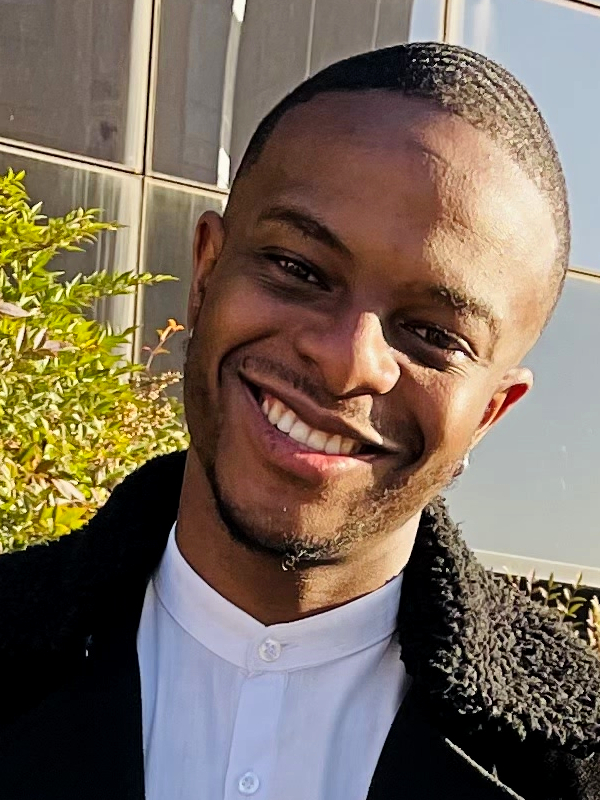
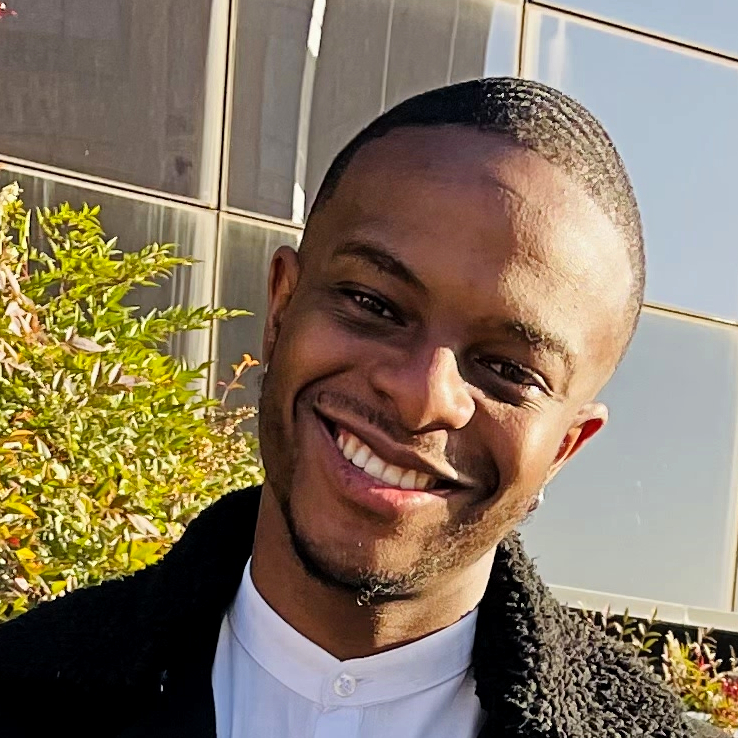
Added a resized version of the my-photo-small (1X1). Added div container on the picture element to aid with better styling. Started coding the mobile version of the website, which I have commented out so as to not affect the overall css codebase.

diff --git a/resume8.html b/resume8.html
@@ -34,14 +34,19 @@
 				<br /><br />
 				<p class="default-font">An introductory personal statement.</p>
 			</header>
-			<picture>
-				<source srcset="images/my-photo-small.jpg" media="(max-width: 600px)" />
-				<source
-					srcset="images/my-photo-medium.jpg"
-					media="(min-width: 651px) and (max-width: 1000px)"
-				/>
-				<img src="images/my-photo-large.jpg" alt="My professional photo" />
-			</picture>
+			<div id="img-container">
+				<picture>
+					<source
+						srcset="images/my-photo-small.jpg"
+						media="(max-width: 600px)"
+					/>
+					<source
+						srcset="images/my-photo-medium.jpg"
+						media="(min-width: 651px) and (max-width: 1000px)"
+					/>
+					<img src="images/my-photo-large.jpg" alt="My professional photo" />
+				</picture>
+			</div>
 		</div>
 		<main class="page-width">
 			<article>

diff --git a/css/styles8.css b/css/styles8.css
@@ -40,8 +40,8 @@ nav {
 	background-position: center;
 	background-size: cover;
 	width: 100%;
+	height: auto;
 	max-height: 100vh;
-	position: relative;
 }
 
 #hero-banner img {
@@ -116,3 +116,29 @@ article {
 footer {
 	padding-bottom: 3em;
 }
+
+/* @media only screen and (max-width: 600px) {
+	.nav-item a {
+		font-size: 0.8em;
+	}
+
+	#hero-banner {
+		margin-top: 3.1em;
+	}
+	#profile-img {
+		width: auto;
+		height: auto;
+		background-color: #000000;
+	}
+	#profile-img img {
+		display: block;
+		left: 0;
+		margin-top: 100px;
+	}
+	#header {
+		order: 1;
+		width: 100%;
+		height: auto;
+		margin-top: 1000px;
+	}
+} */
